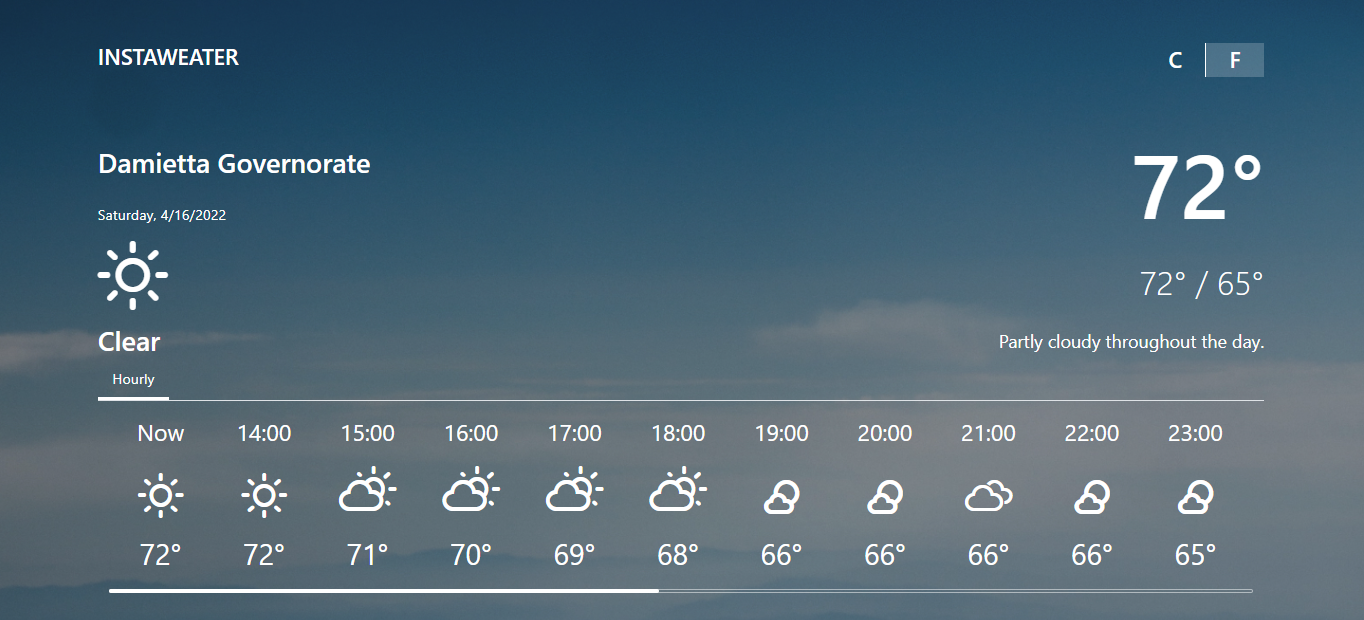
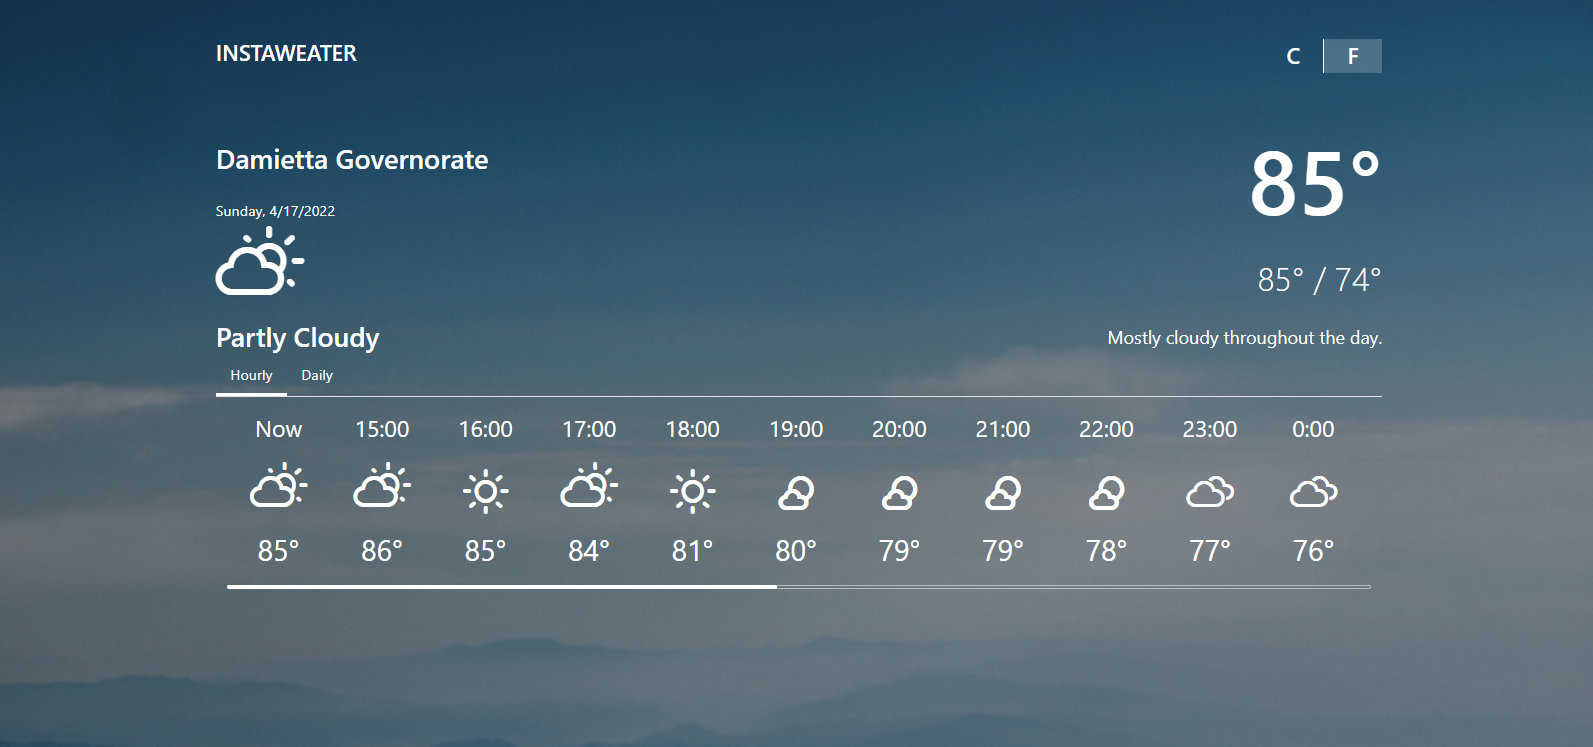
Daily Temperature Added

diff --git a/src/components/MainView.js b/src/components/MainView.js
@@ -3,6 +3,7 @@ import { Container, Tabs, Tab, Row, Col } from 'react-bootstrap';
 import { useEffect, useState } from 'react';
 import CurrentIcon from './CurrentIcon';
 import HourlyTemp from './HourlyTemp';
+import DailyTemp from './DailyTemp';
 
 const MainView = () => {
 
@@ -28,7 +29,7 @@ const MainView = () => {
                 x.innerHTML = "Geolocation is not supported on this browser"
             };
         };
-        getLocation();
+        return getLocation();
     }, []);
 
 
@@ -47,7 +48,6 @@ const MainView = () => {
             .then(res => res.json())
             .then(cityName => setCityName(cityName))
             .catch(error => console.log("Error", error));
-        getWeatherData();
     };
 
     // Handle toggle measurement type
@@ -69,9 +69,12 @@ const MainView = () => {
     let summary = data ? data.currently.summary : null;
     let aggregatedSummary = data ? data.hourly.summary : null;
 
+    // Daily temperature
+    let dailyTemperature = data ? data.daily.data : null;
+
     /* Hourly temperature */
     let firstHourTemp = data ? Math.round(data.hourly.data[0].temperature) : null;
-    let lasttHourTemp = data ? Math.round(data.hourly.data[11].temperature) : null;
+    let lasttHourTemp = data ? Math.round(data.hourly.data[22].temperature) : null;
     let hourlyTemperature = data ? data.hourly.data : null;
 
     // Convert to celsius
@@ -125,6 +128,10 @@ const MainView = () => {
                 <Tab className='hourly' eventKey="hourly" title="Hourly">
                     <HourlyTemp tempType={tempType} hourlyTemperature={hourlyTemperature} />
                 </Tab>
+                <Tab className='hourly' eventKey="daily" title="Daily">
+                    <DailyTemp tempType={tempType} dailyTemperature={dailyTemperature} />
+                </Tab>
+                
             </Tabs>
 
         </Container>

diff --git a/src/components/DayTemp.js b/src/components/DayTemp.js
@@ -1,18 +1,26 @@
-import React from 'react'
+import React from 'react';
+import CurrentIcon from './CurrentIcon';
 
-const DayTemp = () => {
-    // Date
-    // const weekday = ["Sunday", "Monday", "Tuesday", "Wednesday", "Thursday", "Friday", "Saturday"];
-    // let d = data ? data[0].time : null;
-    // let date = new Date(d * 1000)
-    // let day = weekday[date.getDay()];
-    // console.log(day)
+const DayTemp = ({ data, tempType }) => {
+
+  let iconType = data && data.icon;
+  const weekday = ["Sunday", "Monday", "Tuesday", "Wednesday", "Thursday", "Friday", "Saturday"];
+  let d = data ? data.time : null;
+  let date = new Date(d * 1000)
+  let day = weekday[date.getDay()];
+
+  
+  let fHighTemp = data && Math.round(data.temperatureHigh);
+  let fLowTemp = data && Math.round(data.temperatureLow);
+  let cHighTemp = Math.round((fHighTemp - 32) / 1.8);
+  let cLowTemp = Math.round((fLowTemp - 32) / 1.8);
+
   return (
-    <div className='card-body text-center'>
-            <p className='time'>Day</p>
-            {/* <div className='hourly-icon'><CurrentIcon iconType={iconType}/></div> */}
-            <div className='hour-temp'>23&#176;</div>
-        </div>
+    <div className='card-body-daily text-center'>
+      <p className='days'>{day}</p>
+      <div className='hourly-icon'><CurrentIcon iconType={iconType} /></div>
+      <div className='day-temp'>{tempType ? fHighTemp : cHighTemp}&#176; / {tempType ? fLowTemp : cLowTemp}&#176;</div>
+    </div>
   )
 }
 

diff --git a/src/components/DailyTemp.js b/src/components/DailyTemp.js
@@ -1,29 +1,26 @@
 import React from 'react';
-import { useState } from 'react';
+import { useState, useEffect } from 'react';
 import { Container } from 'react-bootstrap';
 import DayTemp from './DayTemp';
 
 const DailyTemp = ({ tempType, dailyTemperature }) => {
 
     const [data, setData] = useState();
-    // console.log(dailyTemperature)
-
-    const handleDays = async () => {
-        dailyTemperature.shift();
-        setTimeout(() => {
-            setData(dailyTemperature)
-            // console.log(data)
-        }, 100)
-    };
-    handleDays();
-
     
+    const handleDays = async () => {
+        setTimeout(() => {
+            setData(dailyTemperature);
+        }, 100)
+    }
+    handleDays();
+   
+    console.log(data)
+
 
     return (
         <Container fluid>
             <div className='d-flex flex-row flex-nowrap overflow-auto'>
                 {data ?
-
                     data.map((day) => (
                         <DayTemp key={day.time} data={day} tempType={tempType} />
                     )) :

diff --git a/src/App.css b/src/App.css
@@ -104,6 +104,22 @@
 
 /*End Hourly temp style*/
 
+/* Daily Temp styel */
+.card-body-daily {
+  min-width: 180px;
+  min-height: auto;
+}
+.days {
+  font-size: 1.5rem;
+  margin-top: 10px;
+}
+
+.day-temp {
+  font-size: 1.6rem;
+  margin-top: 0.5rem;
+  margin-bottom: 0.7rem;
+}
+/* End Daily Temp */
 
 ::-webkit-scrollbar {
   height: 5px;
@@ -165,5 +181,15 @@
   }
   .hour-temp {
     font-size: 1.2rem;
+  }
+  /* Daily Temperature*/
+  .card-body-daily {
+    min-width: 62px;
+  }
+  .days {
+    font-size: 0.7rem;
+  }
+  .day-temp {
+    font-size: 0.7rem;
   }
 }

diff --git a/README.md b/README.md
@@ -1,8 +1,9 @@
 # Rubsta Weather application
 
 ## Description
-A weather application that displays the current temperature and 24 hours cast based on the user's location. The temperature can be displayed in both Fahrenheit and Celsius scales.
+A weather application that displays the current temperature with 24 hours cast, and daily temperature with seven days cast based on the user's location. The temperature can be displayed in both Fahrenheit and Celsius scales.
 ![A screenshot of the app](./src/assets/Screenshot.png)
+![A screenshot of the app](./src/assets/Screenshot2.png)
 
 ## Installation
 - Clone or download the repo to your computer<br />
